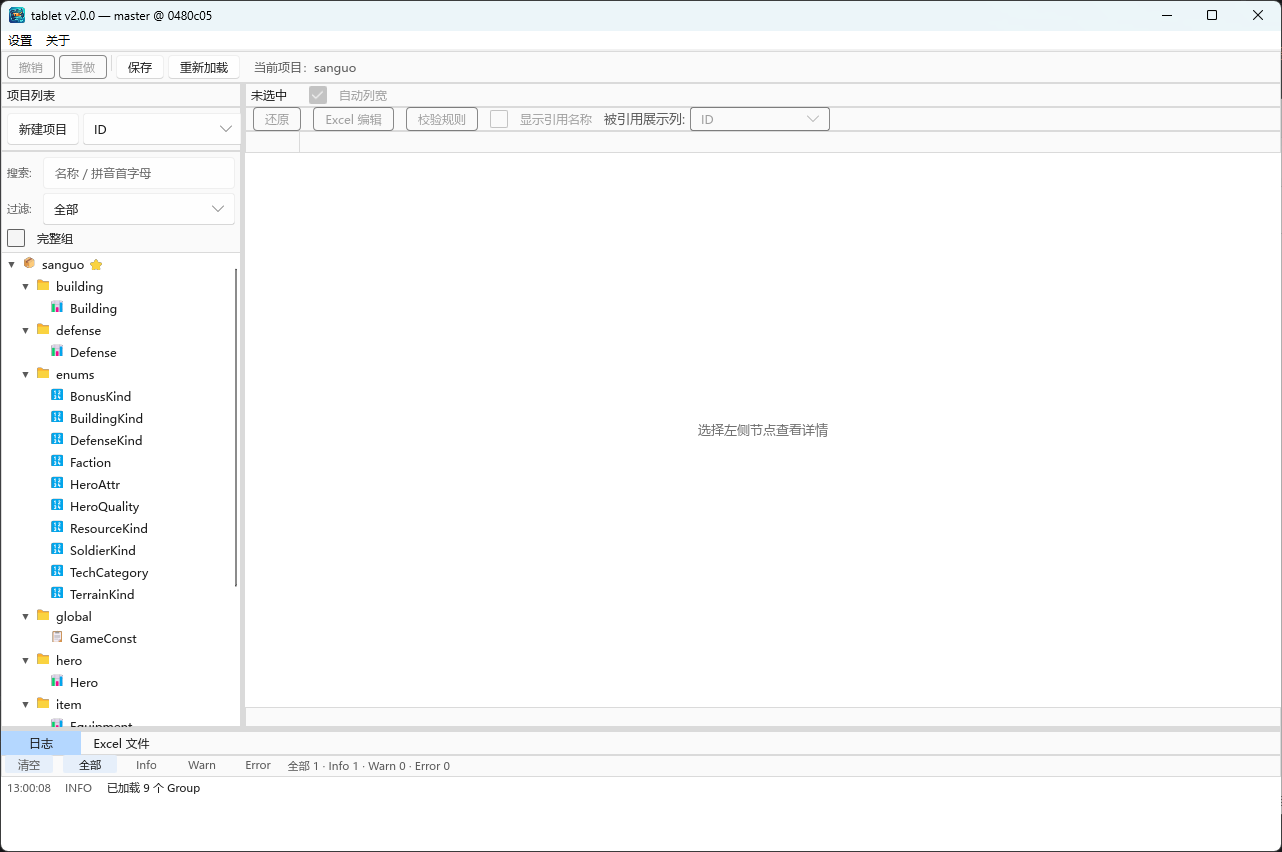
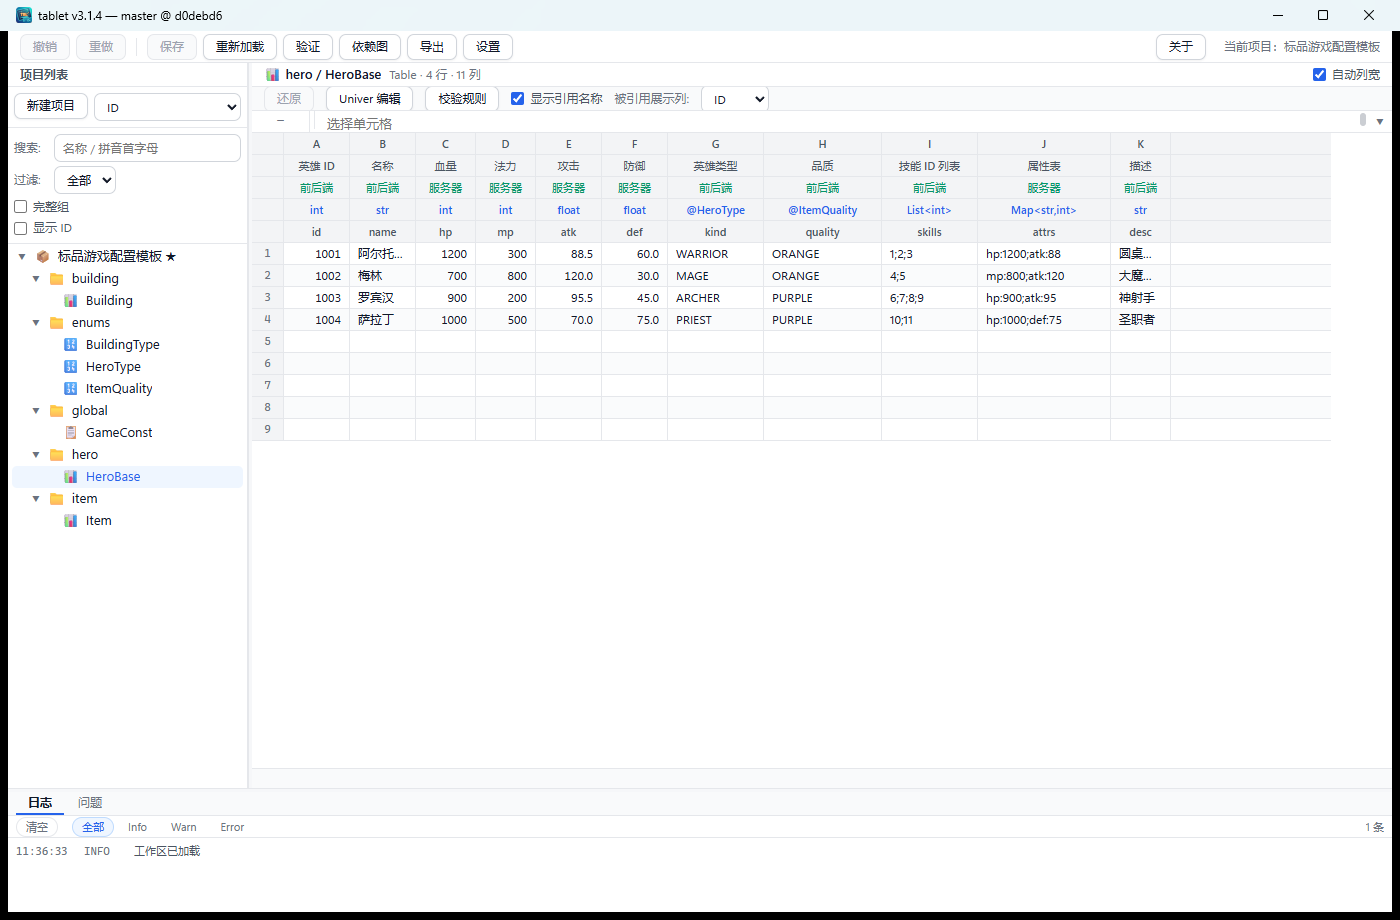
docs: 清理 Excel 目录旧描述并更新主界面截图
- .excel/ 说明为导出默认落点，.tbl-cache/ 说明为 Univer 回写临时工作簿
- 删除 excel_sync / .tbl.tmp / Excel 桥接等已移除能力的残留描述
- 替换 res/ui_main.png 为 3.1.4 当前界面

diff --git a/docs/03-CLI工程.md b/docs/03-CLI工程.md
@@ -32,8 +32,7 @@ tablet/
     │   │   ├── validate/       ← cell / row / schema / project 四层验证
     │   │   ├── template/       ← 项目模板（TemplateSource / Builtin / Local / instantiate）
     │   │   ├── export/         ← JSON / XML / Java / Go / Lua
-    │   │   ├── excel.rs        ← xlsx 严格互转（CLI / GUI 编辑桥接共用）
-    │   │   └── excel_sync.rs   ← Excel 同步引擎（umya-spreadsheet，仅 GUI 同步面板用）
+    │   │   └── excel.rs        ← xlsx 严格互转（CLI / GUI 导入导出 / 映射共用）
     │   ├── templates/          ← Java/Go/Lua 模板源（生成代码用）
     │   └── schemas/            ← 内置 .tblschema（include_str! 嵌入；@02 项目模板 / @08 测试驱动共用）
     │
@@ -87,7 +86,7 @@ game-config/
 │   │   │   │   └── ItemDrop.tbl
 │   │   │   └── global/
 │   │   │       └── GlobalConst.tbl    ← Constant
-│   │   └── .tbl-cache/         ← 临时 xlsx + .tbl.tmp，gitignore（§6、@06）
+│   │   └── .tbl-cache/         ← Univer 回写临时工作簿，gitignore（§6.2）
 │   └── slg-prod/...            ← 另一个 Project
 ├── tblschema/                  ← 本地模板库（可选）
 │   ├── slg-base.tblschema
@@ -98,7 +97,7 @@ game-config/
 └── .gitignore                  ← 详见 §6
 ```
 
-`projects/<id>/` 自包含一个 Project 全部所需（schema + 数据 + 元数据 + Excel 缓存）。同一仓库可并存多个 Project，启动时 UI 默认进入 `[project] last_project` 指定的那个；不存在则进入扫描结果中第一个。
+`projects/<id>/` 自包含一个 Project 全部所需（schema + 数据 + 元数据 + Univer 临时工作簿）。同一仓库可并存多个 Project，启动时 UI 默认进入 `[project] last_project` 指定的那个；不存在则进入扫描结果中第一个。
 
 老仓库的根目录 `config/` 在新版本启动时**自动迁移**到 `projects/default/`（@02 Project / 老结构迁移），不保留双结构。
 
@@ -334,8 +333,11 @@ UI 上的视觉反馈（红框/树节点 `!` /日志框）见 @04.5.4。
 ### 6.2 .gitignore
 
 ```gitignore
-# 编辑器临时工作簿（Univer 回写 / 导出缓存）：每个 Project 自带一份，全部忽略
+# Univer 回写临时工作簿：回写结束 / 进程启动时自动清理
 projects/*/.tbl-cache/
+
+# 导出 Excel 的默认落点（对话框里可改路径）
+projects/*/.excel/
 
 # Excel 临时文件
 *.xlsx~
@@ -372,12 +374,13 @@ gen/
 ```
 <repo-root>/
 ├── tablet.toml                 # 全局配置（进 git）
-├── projects/                     # 全部 Project（进 git，除 .tbl-cache/）
+├── projects/                     # 全部 Project（进 git，除 .excel/ .tbl-cache/）
 │   ├── slg-test/
 │   │   ├── project.toml
 │   │   ├── project.tblmanifest
 │   │   ├── config/
-│   │   └── .tbl-cache/           # ← .gitignore
+│   │   ├── .excel/             # ← 导出 Excel 默认落点（.gitignore）
+│   │   └── .tbl-cache/         # ← Univer 临时工作簿（.gitignore）
 │   └── slg-prod/...
 ├── .data/                        # 本机用户数据 + 进程锁（.gitignore）
 ├── tblschema/                    # 本地模板库（可选进 git，按团队约定）

diff --git a/README.md b/README.md
@@ -2,7 +2,7 @@
 
 **把游戏配置表从「一堆 Excel 附件」变成可 review、可验证、可生成代码的工程资产。**
 
-策划照常在表格里填数据，程序拿到的是类型安全的代码：数据以 `.tbl` 纯文本进入 Git，Excel 只当编辑器；一条命令同时产出 JSON / XML 和 10 份多语言配置代码。
+策划照常在表格里填数据，程序拿到的是类型安全的代码：数据以 `.tbl` 纯文本进入 Git，Excel 只用于导入 / 导出（或整组直接作为存储）；一条命令同时产出 JSON / XML 和 10 份多语言配置代码。
 
 - **`tablet`**：桌面端（Tauri + WebView2，内置 Univer 表格编辑）。双击 / 零参数走 GUI，其它参数自动转给 CLI——部署只需要一个 exe。
 - **`tablet-cli`**：命令行入口，给 Jenkins / CI / 自动化脚本用，与 GUI 共享同一份 core。
@@ -132,7 +132,7 @@ tablet-cli --project slg-prod export all
         └── <group>.xlsx        工作簿组：一个文件，sheet = 节点
 ```
 
-`.tbl`、`.tblschema`、`project.tblmanifest`、`project.toml` 都应进版本控制；`.tbl-cache/` 与 `.data/` 是工具临时物。
+`.tbl`、`.tblschema`、`project.tblmanifest`、`project.toml` 都应进版本控制；`.tbl-cache/`（Univer 临时工作簿）、`.excel/`（导出 Excel 默认落点）与 `.data/`（本机偏好）默认不入库。
 
 ## 下载与构建
 

diff --git a/docs/13-结构真相与存储布局.md b/docs/13-结构真相与存储布局.md
@@ -12,12 +12,11 @@ C 方案落地后，结构信息只有两处真实来源：
 
 `project.tblmanifest` 只记录节点索引 / storage / 规则 / display，不再复制字段。
 
-三条 Excel 编辑路线又各自持有表头：
+两条 Excel 往返路线又各自持有表头：
 
 | 路线 | 数据归属 | 表头角色 |
 |---|---|---|
-| Excel 桥接 / 临时本 | `.tbl` 组 | 生成视图；回读严格比对 |
-| Excel 同步面板 | `.tbl` 组 | 生成视图；只交换 desc + 数据 |
+| Excel 导入 / 导出（临时本） | `.tbl` 组 | 生成视图；回读严格比对 |
 | 原生 xlsx 组 | workbook | 离线编辑锚点；与 schema 比对 |
 
 问题不是“表头存在”，而是**结构真相源是否唯一**。本文件把可选演进拆成三个维度，避免把 v4、双形态和存储布局混成一次改动。

diff --git a/skills/tablet/references/format.md b/skills/tablet/references/format.md
@@ -381,5 +381,6 @@ Enum sheet（1 行表头）
     ├── config/<group>/<Name>.tbl    Tbl 组：数据与结构真相源
     ├── config/<group>.xlsx          Xlsx 组：结构与数据真相源（4 行表头 + sheet）
     ├── gen/                         导出默认落点
-    └── .tbl-cache/                  Excel 桥接临时文件
+    ├── .excel/                      导出 Excel 默认落点（可改路径）
+    └── .tbl-cache/                  Univer 回写临时工作簿（自动清理）
 ```

diff --git a/skills/tablet/SKILL.md b/skills/tablet/SKILL.md
@@ -434,8 +434,9 @@ tablet-cli -w <config仓库根> --project game export code --csharp-unity
 # 运行日志（写在 workdir 根）
 tablet.log
 tablet-crash.log
-# Excel 桥接 / 编辑产生的临时工作簿（tablet 进程启动、退出时自动清理）
+# 导出 Excel 的默认落点（对话框里可改路径）
 projects/*/.excel/
+# Univer 回写临时工作簿（回写结束 / 进程启动时自动清理）
 projects/*/.tbl-cache/
 # xlsx 组保存时的中间文件
 **/*.xlsx.tmp
